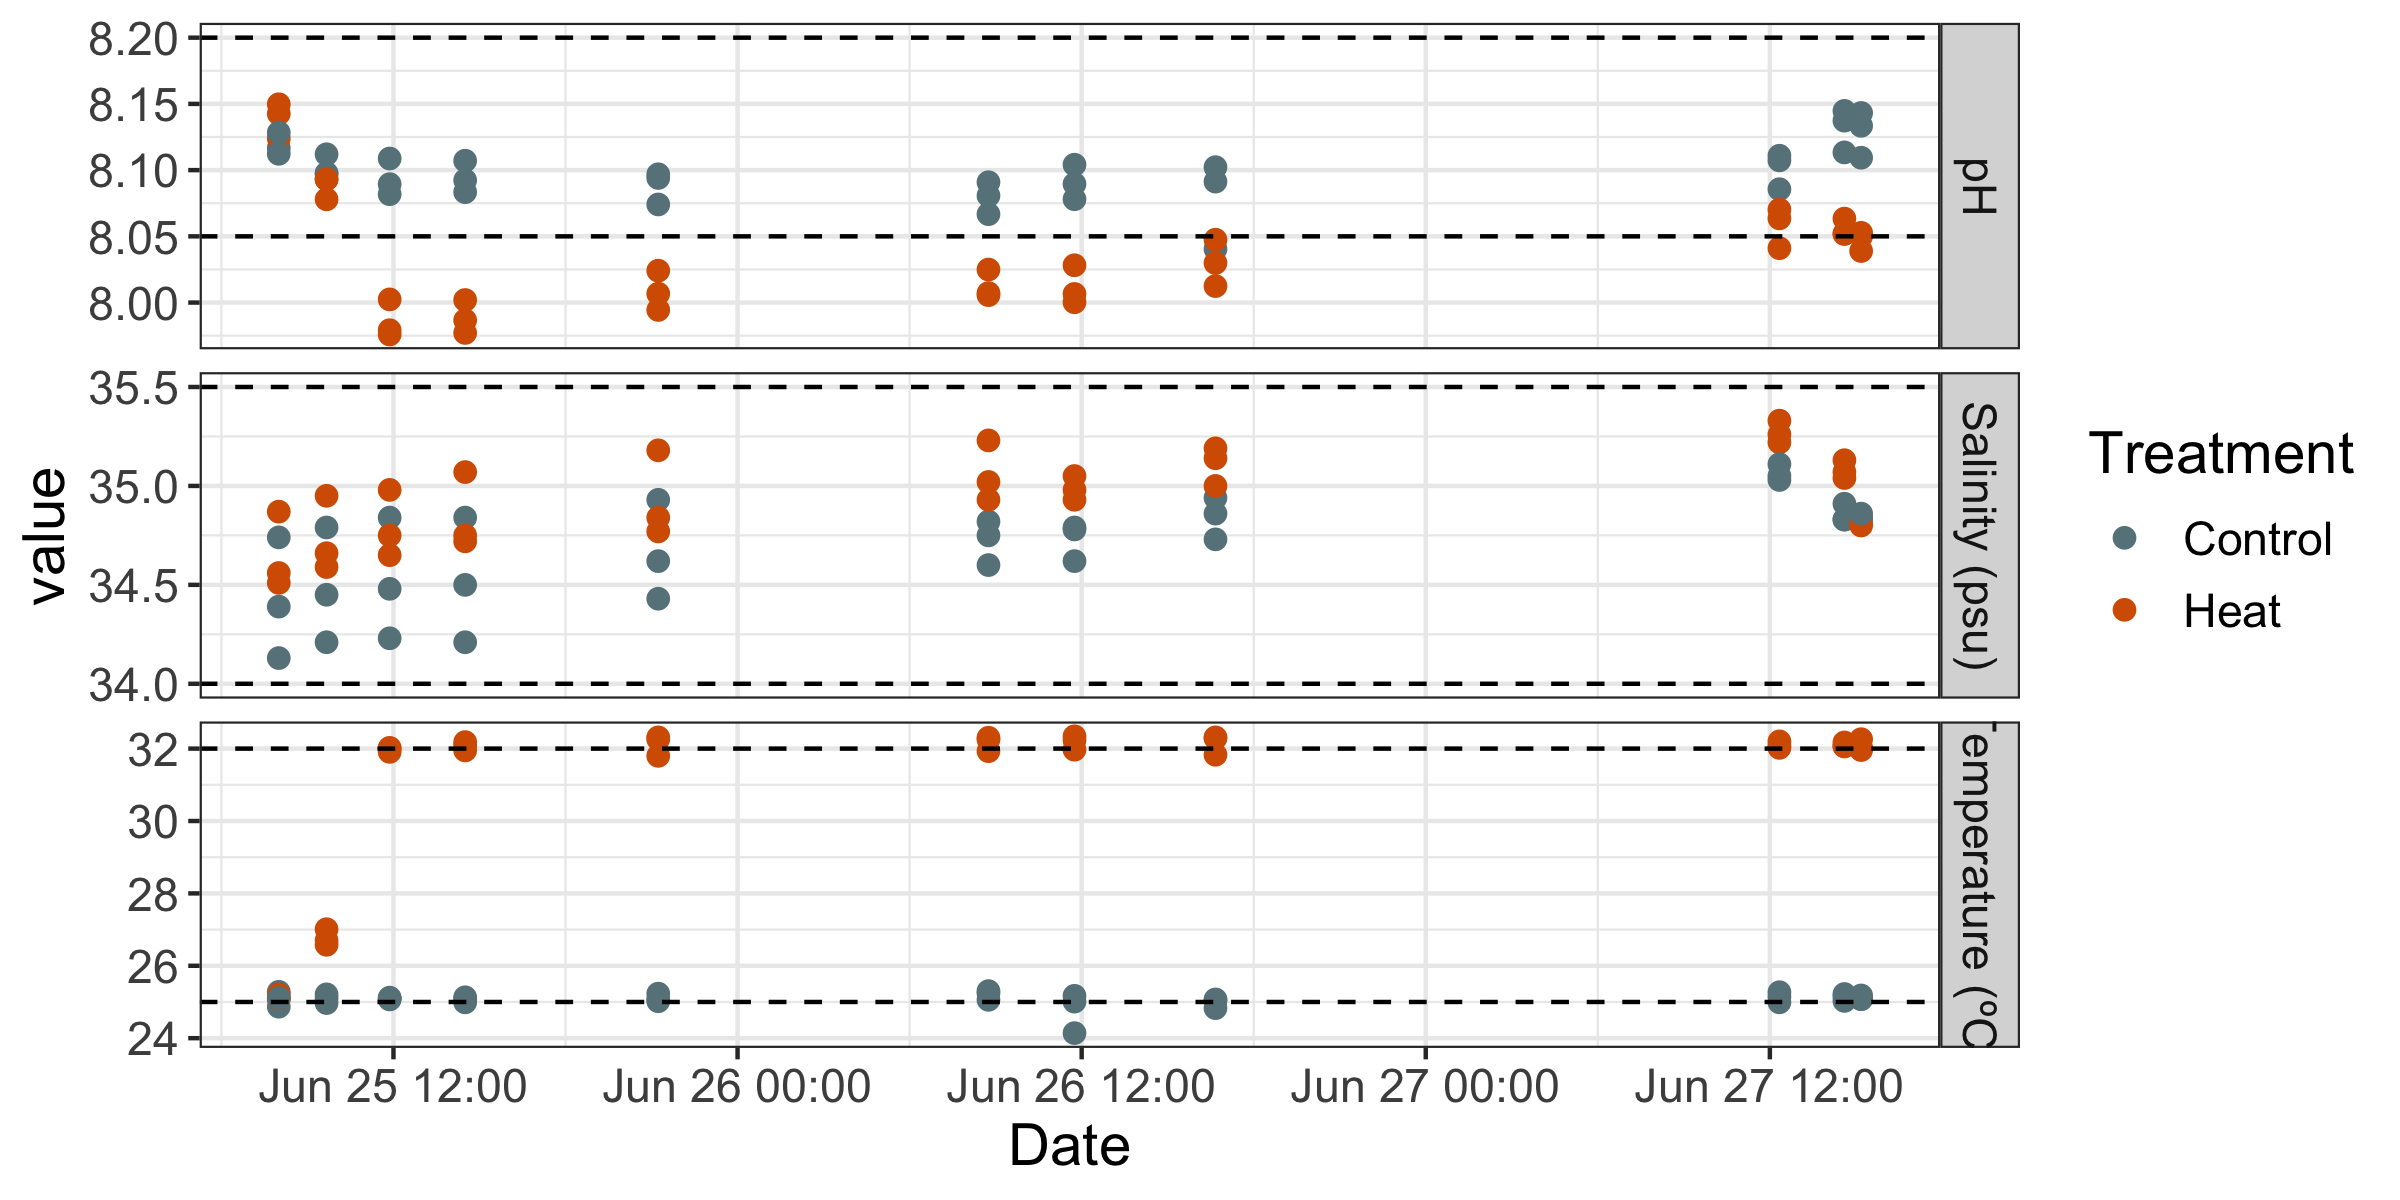
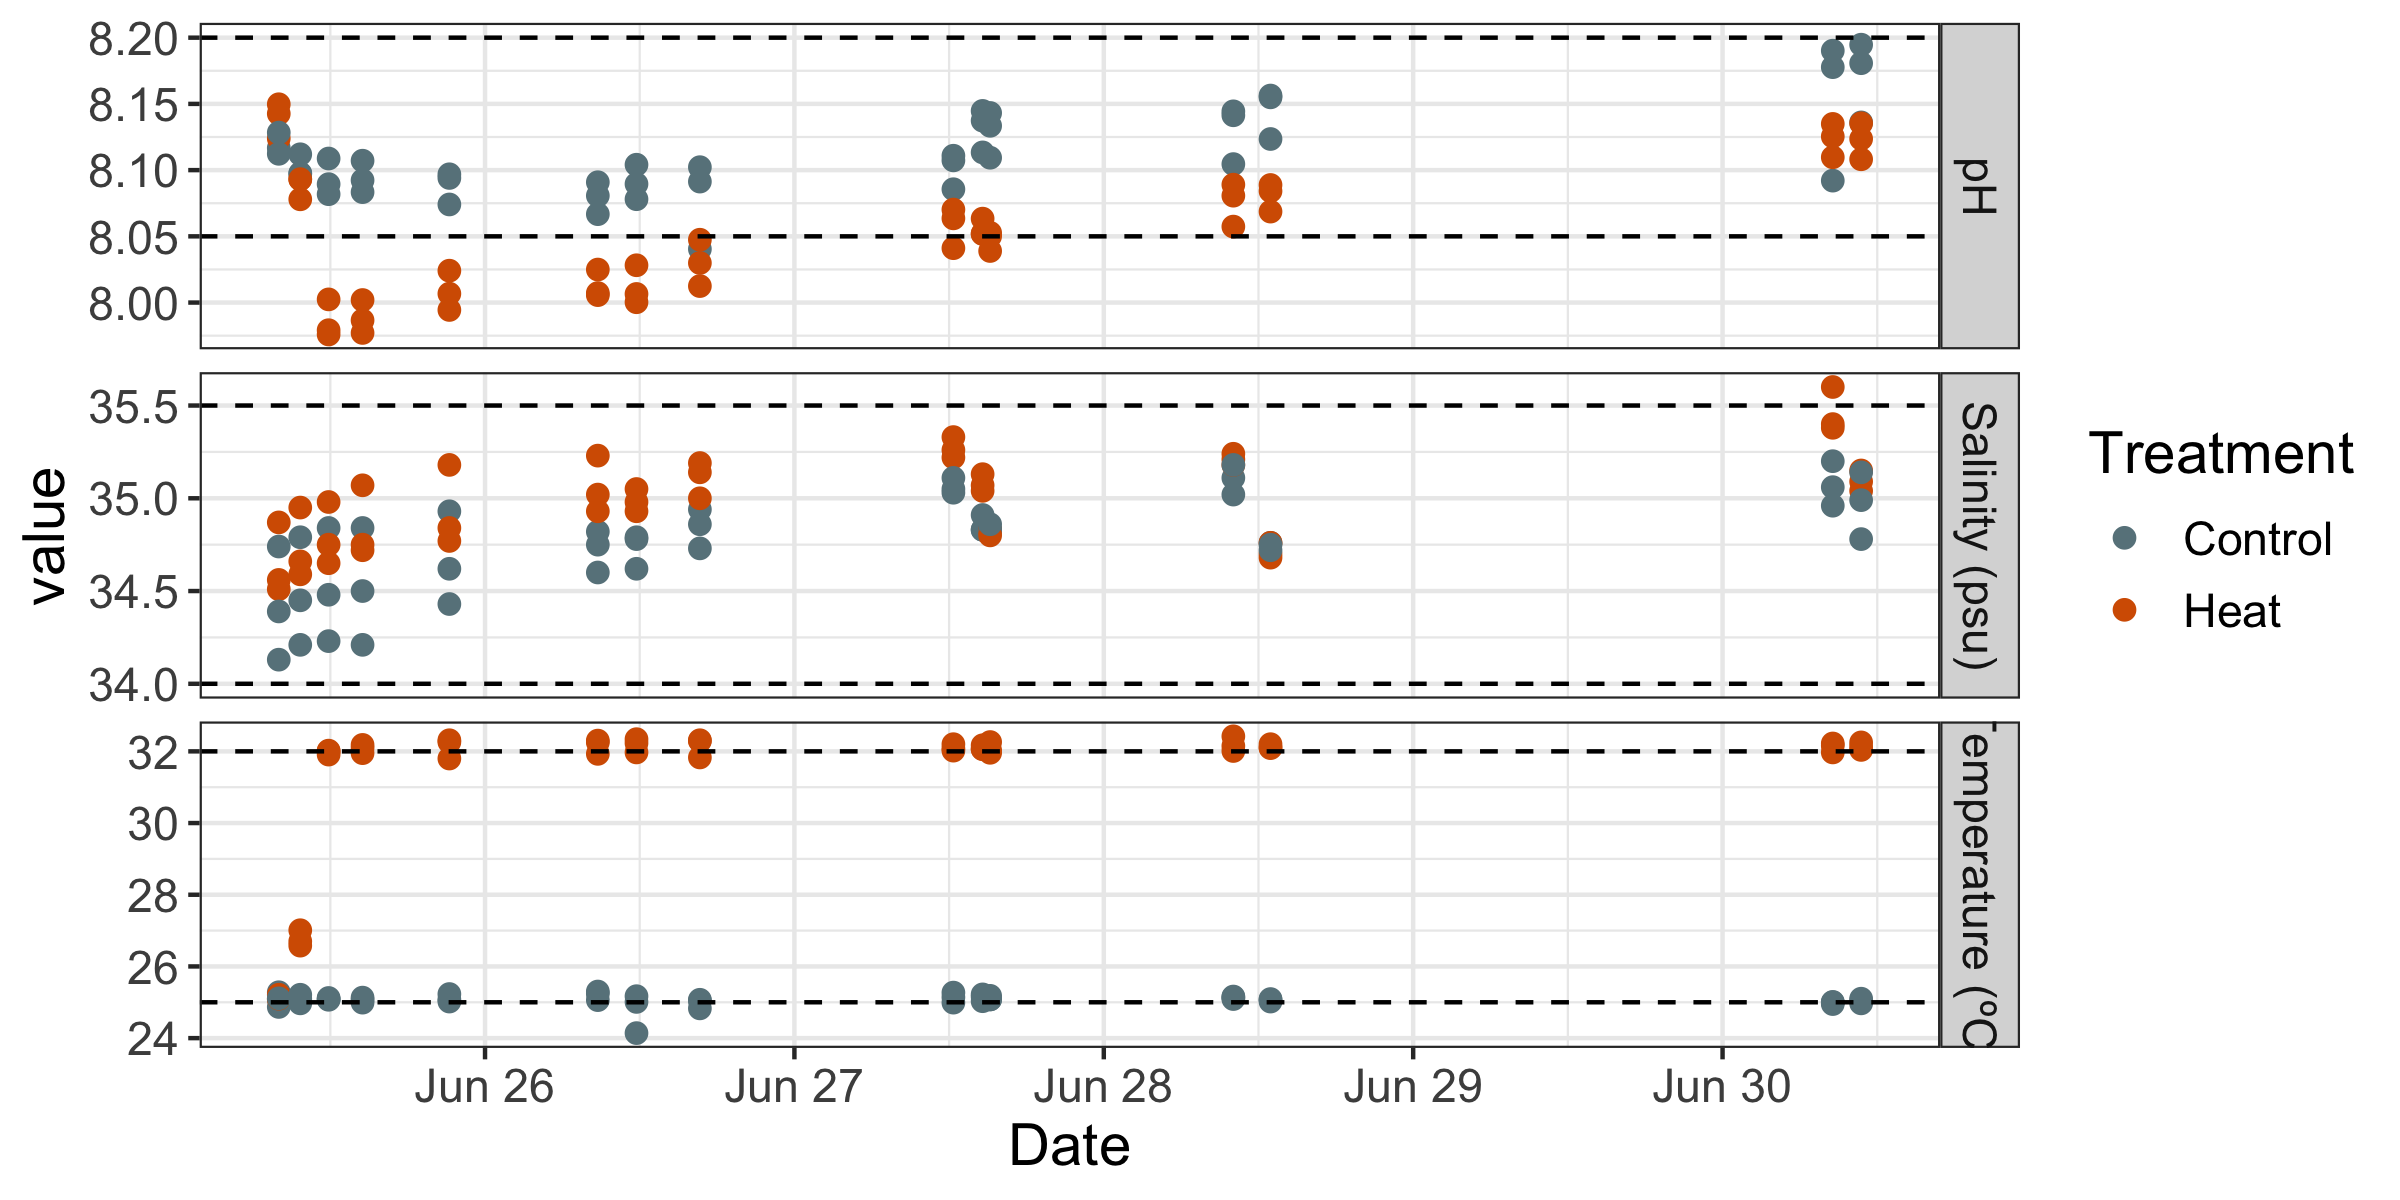
updated POR dms

diff --git a/1-Pcom/code/DMs.md b/1-Pcom/code/DMs.md
@@ -58,20 +58,20 @@ head(daily)
 tail(daily) # check to make sure data from today is there
 ```
 
-    ##        Date Treatment Tank_ID  Time Initials Temperature_C pH_mv Salinity_psu
-    ## 73 20250627   Control       1 15:11       ZD         25.08 -61.3        34.83
-    ## 74 20250627      Heat       2 15:11       ZD         32.03 -63.1        34.83
-    ## 75 20250627      Heat       3 15:11       ZD         32.26 -62.6        34.82
-    ## 76 20250627   Control       4 15:11       ZD         25.08 -63.3        34.83
-    ## 77 20250627      Heat       5 15:11       ZD         31.96 -63.2        34.80
-    ## 78 20250627   Control       6 15:11       ZD         25.18 -62.8        34.86
-    ##    tris.date Probe.Set notes
-    ## 73  20250618    Probe1      
-    ## 74  20250618    Probe1      
-    ## 75  20250618    Probe1      
-    ## 76  20250618    Probe1      
-    ## 77  20250618    Probe1      
-    ## 78  20250618    Probe1
+    ##         Date Treatment Tank_ID  Time Initials Temperature_C pH_mv Salinity_psu
+    ## 97  20250630   Control       1 10:45    JH;NB         25.10 -62.9        34.78
+    ## 98  20250630      Heat       2 10:45    JH;NB         32.13 -67.6        35.09
+    ## 99  20250630      Heat       3 10:45    JH;NB         32.04 -66.6        35.04
+    ## 100 20250630   Control       4 10:45    JH;NB         25.04 -66.3        34.99
+    ## 101 20250630      Heat       5 10:45    JH;NB         32.25 -68.4        35.15
+    ## 102 20250630   Control       6 10:45    JH;NB         24.97 -65.4        35.14
+    ##     tris.date Probe.Set notes
+    ## 97   20250618    Probe1      
+    ## 98   20250618    Probe1      
+    ## 99   20250618    Probe1      
+    ## 100  20250618    Probe1      
+    ## 101  20250618    Probe1      
+    ## 102  20250618    Probe1
 
 ``` r
 daily$Date <- as.Date(as.character(daily$Date), format = "%Y%m%d")
@@ -87,19 +87,19 @@ daily.probe1 <- daily %>% filter(Probe.Set == "Probe1")
 range(na.omit(daily.probe1$Temperature_C))
 ```
 
-    ## [1] 24.14 32.34
+    ## [1] 24.14 32.42
 
 ``` r
 range(na.omit(daily.probe1$pH_mv))
 ```
 
-    ## [1] -64.3 -57.2
+    ## [1] -68.4 -57.2
 
 ``` r
 range(na.omit(daily.probe1$Salinity_psu))
 ```
 
-    ## [1] 33.54 35.33
+    ## [1] 33.54 35.60
 
 ## 0.2 Calculate total pH from Probe Set 1
 
@@ -248,12 +248,12 @@ summary <- daily_exp%>%
     ## # A tibble: 6 × 9
     ##   Tank_ID Temperature_C_mean Temperature_C_sd Salinity_psu_mean Salinity_psu_sd
     ##   <chr>                <dbl>            <dbl>             <dbl>           <dbl>
-    ## 1 1                     25.1           0.0895              34.9          0.0833
-    ## 2 2                     30.9           2.55                34.9          0.197 
-    ## 3 3                     31.0           2.51                34.9          0.234 
-    ## 4 4                     25.0           0.308               34.5          0.311 
-    ## 5 5                     31.0           2.50                35.1          0.161 
-    ## 6 6                     25.1           0.0772              34.7          0.230 
+    ## 1 1                     25.1           0.0823              34.9          0.0934
+    ## 2 2                     31.3           2.23                34.9          0.242 
+    ## 3 3                     31.3           2.19                34.9          0.261 
+    ## 4 4                     25.0           0.267               34.6          0.340 
+    ## 5 5                     31.3           2.18                35.1          0.214 
+    ## 6 6                     25.1           0.0919              34.8          0.275 
     ## # ℹ 4 more variables: pH.total_mean <dbl>, pH.total_sd <dbl>, pH_mv_mean <dbl>,
     ## #   pH_mv_sd <dbl>
 
